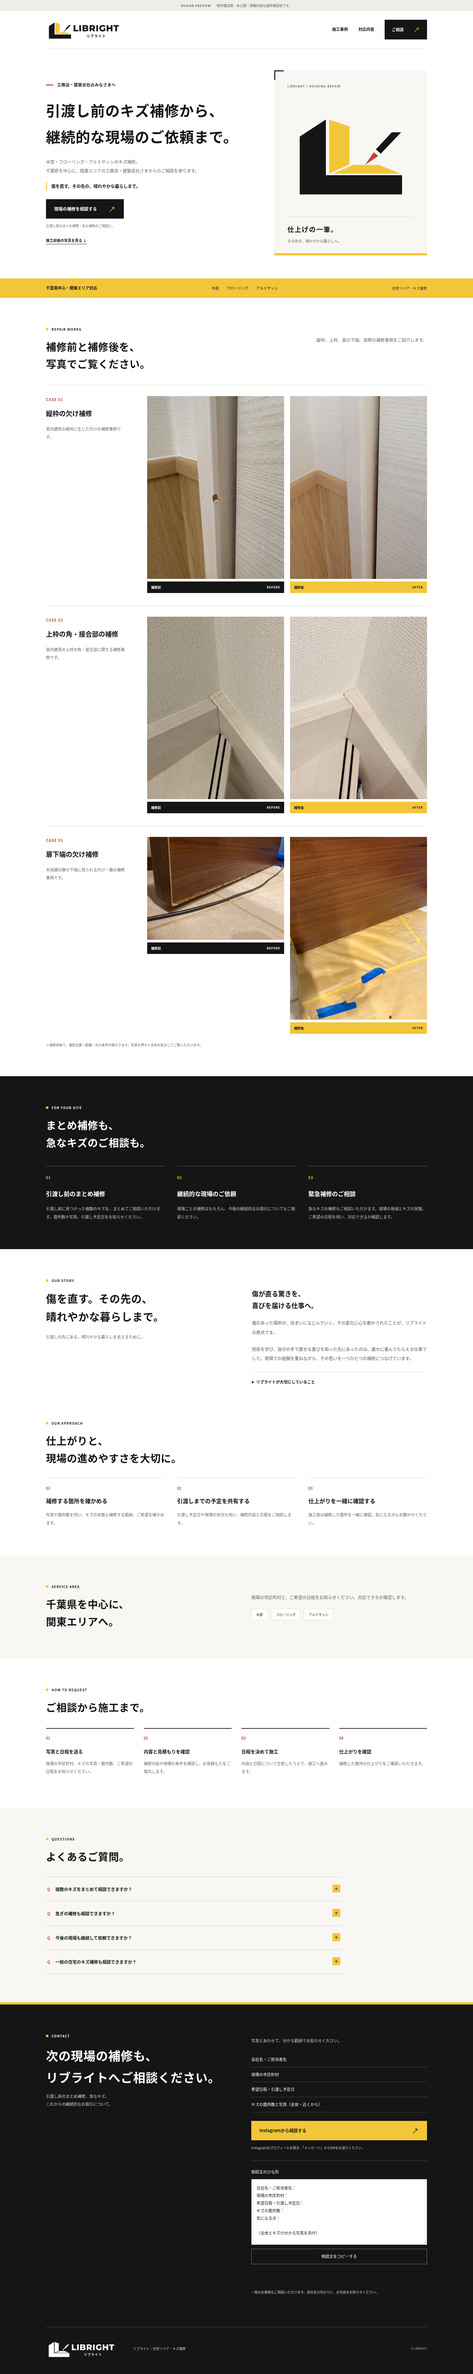
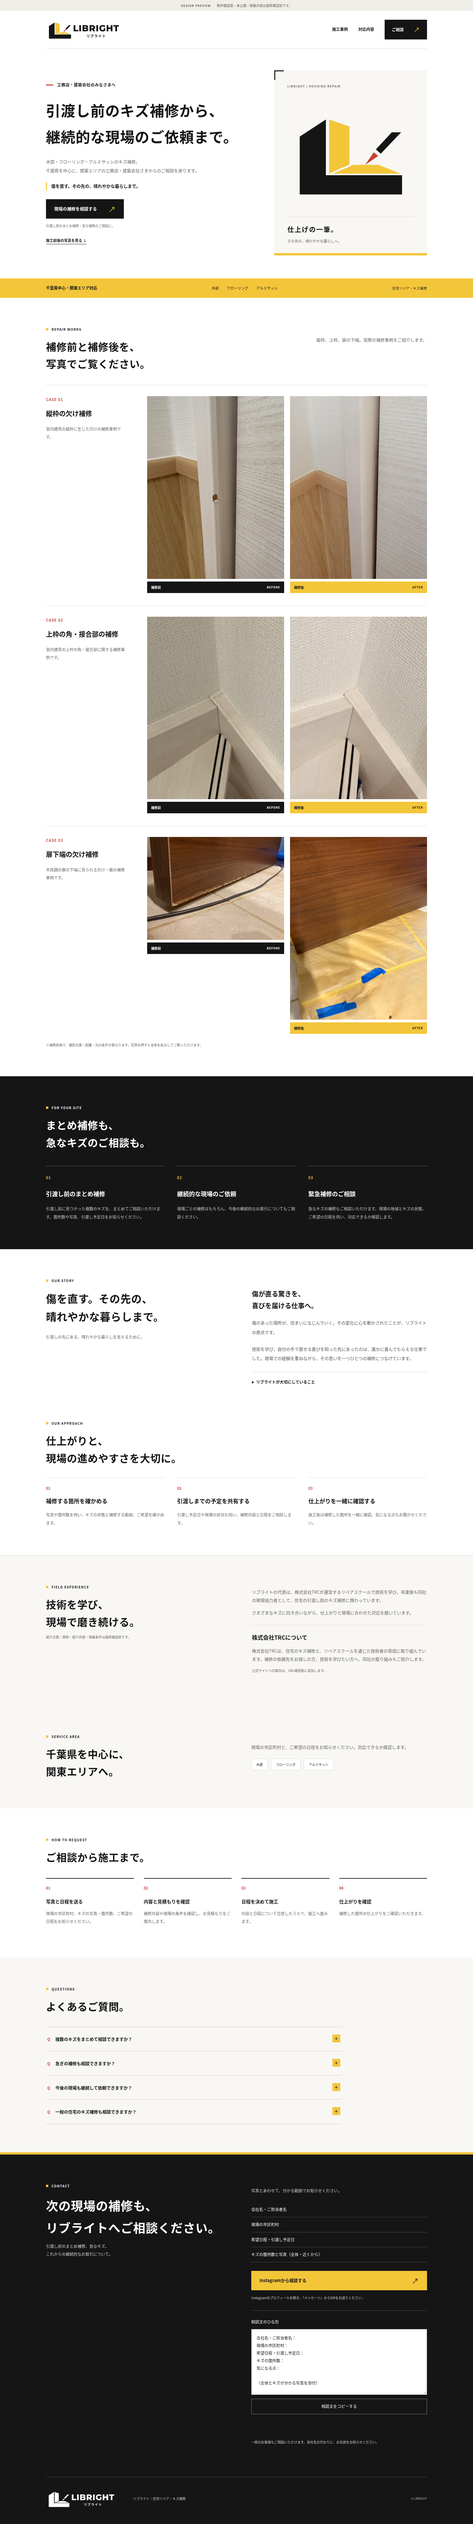
Restore TRC introduction draft to LP review and copy preview

diff --git a/design/copy-review.html b/design/copy-review.html
@@ -1,7 +1,7 @@
-<!doctype html><html lang="ja"><head><meta charset="utf-8"><meta name="viewport" content="width=device-width,initial-scale=1"><meta name="robots" content="noindex,nofollow"><title>LIBRIGHT 文章確認版 v0.2</title><style>body{margin:0;background:#f8f7f3;color:#151515;font:16px/2 sans-serif}header,main,footer{max-width:820px;margin:auto;padding:28px 24px}header{border-bottom:5px solid #f3c63a}section{padding:28px 0;border-top:1px solid #ddd}h1{font-size:26px}h2{font-size:23px}h3{font-size:19px}summary{font-weight:bold;margin-top:20px}p{margin:14px 0}pre{white-space:pre-wrap;background:white;padding:20px;font:inherit}.action{border-left:4px solid #f3c63a;padding-left:12px}footer{border-top:1px solid #ddd;font-size:14px}section{counter-increment:section}section>div:first-child:before,section>span:first-child:before{content:counter(section,decimal-leading-zero) " / ";font-weight:bold;color:#c54136}div{overflow-wrap:anywhere}@media print{body{background:white}section{break-inside:avoid}}</style></head><body><header><h1>LIBRIGHT｜LPの文章確認版</h1><p>文章確認版 v0.2｜2026-10-30。LP本体から本文を抽出。写真は省略し、折りたたみ内の文章もすべて表示しています。掲載順に読み進められます。</p></header><main><div><div><p>工務店・建築会社のみなさまへ</p><h1>引渡し前のキズ補修から、<br>継続的な現場のご依頼まで。</h1><p>木部・フローリング・アルミサッシのキズ補修。<br>千葉県を中心に、関東エリアの工務店・建築会社さまからのご相談を承ります。</p><p>傷を直す。その先の、晴れやかな暮らしまで。</p><p class="action">現場の補修を相談する<span>↗</span></p><p>引渡し前のまとめ補修・急な補修のご相談に。</p><p class="action">施工前後の写真を見る ↓</p></div><div><span>LIBRIGHT / HOUSING REPAIR</span><div><span>仕上げの一筆。</span><p>その先の、晴れやかな暮らしへ。</p></div></div></div><div><div><strong>千葉県中心・関東エリア対応</strong><div><span>木部</span><span>フローリング</span><span>アルミサッシ</span></div><span>住宅リペア・キズ補修</span></div></div><section id="works"><div><div><span>REPAIR WORKS</span><h2>補修前と補修後を、<br>写真でご覧ください。</h2></div><p>縦枠、上枠、扉の下端。実際の補修事例をご紹介します。</p></div><div><div><span>CASE 01</span><h3>縦枠の欠け補修</h3></div><div><figcaption>補修前<span>BEFORE</span></figcaption><figcaption>補修後<span>AFTER</span></figcaption></div><p>室内建具の縦枠に生じた欠けの補修事例です。</p><div><span>CASE 02</span><h3>上枠の角・接合部の補修</h3></div><div><figcaption>補修前<span>BEFORE</span></figcaption><figcaption>補修後<span>AFTER</span></figcaption></div><p>室内建具の上枠の角・接合部に関する補修事例です。</p><div><span>CASE 03</span><h3>扉下端の欠け補修</h3></div><div><figcaption>補修前<span>BEFORE</span></figcaption><figcaption>補修後<span>AFTER</span></figcaption></div><p>木目調の扉の下端に見られる欠け・傷の補修事例です。</p></div><p>※補修前後で、撮影位置・距離・光の条件が異なります。写真を押すと全体を拡大してご覧いただけます。</p></section><section id="services"><div><div><div><span>FOR YOUR SITE</span><h2>まとめ補修も、<br>急なキズのご相談も。</h2></div></div><div><div><span>01</span><h3>引渡し前のまとめ補修</h3><p>引渡し前に見つかった複数のキズを、まとめてご相談いただけます。箇所数や写真、引渡し予定日をお知らせください。</p></div><div><span>02</span><h3>継続的な現場のご依頼</h3><p>現場ごとの補修はもちろん、今後の継続的なお取引についてもご相談ください。</p></div><div><span>03</span><h3>緊急補修のご相談</h3><p>急なキズの補修もご相談いただけます。現場の地域とキズの状態、ご希望の日程を伺い、対応できるか確認します。</p></div></div></div></section><section id="brand-concept"><div><span>OUR STORY</span><h2>傷を直す。その先の、<br>晴れやかな暮らしまで。</h2><p>引渡しの先にある、晴れやかな暮らしを支えるために。</p></div><div><h3>傷が直る驚きを、<br>喜びを届ける仕事へ。</h3><p>傷のあった場所が、住まいになじんでいく。その変化に心を動かされたことが、リブライトの原点です。</p><p>技術を学び、自分の手で直せる喜びを知った先にあったのは、誰かに喜んでもらえる仕事でした。現場での経験を重ねながら、その思いを一つひとつの補修につなげています。</p><summary>リブライトが大切にしていること</summary><div><p>住まいについた傷だけでなく、その傷を見るたびに生まれる気がかりにも目を向ける。</p><p>丁寧な補修で住まいの本来の美しさを取り戻し、安心して毎日を過ごせるように。</p><p>かつて補修技術に感動した人が、今度はその技術で人に喜びを届けていく。</p><div><h3>LIBRIGHTの名前に重ねる思い</h3><p>フランス語の「libre（自由な）」と、英語の「bright（明るい・輝かしい）」。LIBRIGHTは、住まいの傷への気がかりを手放し、晴れやかな暮らしへ向かうお手伝いを目指しています。</p></div></div></div></section><section id="approach"><div><span>OUR APPROACH</span><h2>仕上がりと、<br>現場の進めやすさを大切に。</h2><ol><li><span>01</span><h3>補修する箇所を確かめる</h3><p>写真や箇所数を伺い、キズの状態と補修する範囲、ご希望を確かめます。</p></li><li><span>02</span><h3>引渡しまでの予定を共有する</h3><p>引渡し予定日や現場の状況も伺い、補修内容と日程をご相談します。</p></li><li><span>03</span><h3>仕上がりを一緒に確認する</h3><p>施工後は補修した箇所を一緒に確認。気になる点もお聞かせください。</p></li></ol></div></section><section id="area"><div><div><span>SERVICE AREA</span><h2>千葉県を中心に、<br>関東エリアへ。</h2></div><div><p>現場の市区町村と、ご希望の日程をお知らせください。対応できるか確認します。</p><div><span>木部</span><span>フローリング</span><span>アルミサッシ</span></div></div></div></section><section id="process"><span>HOW TO REQUEST</span><h2>ご相談から施工まで。</h2><ol><li><h3>写真と日程を送る</h3><p>現場の市区町村、キズの写真・箇所数、ご希望の日程をお知らせください。</p></li><li><h3>内容と見積もりを確認</h3><p>補修内容や現場の条件を確認し、お見積もりをご案内します。</p></li><li><h3>日程を決めて施工</h3><p>内容と日程について合意したうえで、施工へ進みます。</p></li><li><h3>仕上がりを確認</h3><p>補修した箇所の仕上がりをご確認いただきます。</p></li></ol></section><section><div><span>QUESTIONS</span><h2>よくあるご質問。</h2><div><summary>複数のキズをまとめて相談できますか？</summary><p>はい。引渡し前のまとめ補修をご相談いただけます。キズの写真と箇所数、現場の市区町村、引渡し予定日をお知らせください。</p><summary>急ぎの補修も相談できますか？</summary><p>はい。緊急補修もご相談いただけます。ご希望の日時と現場の状況を伺い、対応できるか確認します。</p><summary>今後の現場も継続して依頼できますか？</summary><p>継続的なお取引を希望しています。今後の現場で補修先をお探しの工務店・建築会社さまも、まずはご相談ください。</p><summary>一般の住宅のキズ補修も相談できますか？</summary><p>はい。一般のお客様からの住宅のキズ補修もご相談いただけます。お住まいの市区町村、キズの写真、ご希望の日程をお知らせください。</p></div></div></section><section id="contact"><div><div><span>CONTACT</span><h2>次の現場の補修も、<br>リブライトへご相談ください。</h2><p>引渡し前のまとめ補修、急なキズ、<br>これからの継続的なお取引について。</p></div><div><p>写真とあわせて、分かる範囲でお知らせください。</p><ul><li>会社名・ご担当者名</li><li>現場の市区町村</li><li>希望日程・引渡し予定日</li><li>キズの箇所数と写真（全体・近くから）</li></ul><p class="action">Instagramから相談する<span>↗</span></p><p>Instagramのプロフィールを開き、「メッセージ」からDMをお送りください。</p><div><h3>相談文のひな形</h3><pre>会社名・ご担当者名：
+<!doctype html><html lang="ja"><head><meta charset="utf-8"><meta name="viewport" content="width=device-width,initial-scale=1"><meta name="robots" content="noindex,nofollow"><title>LIBRIGHT 文章確認版 v0.2</title><style>body{margin:0;background:#f8f7f3;color:#151515;font:16px/2 sans-serif}header,main,footer{max-width:820px;margin:auto;padding:28px 24px}header{border-bottom:5px solid #f3c63a}section{padding:28px 0;border-top:1px solid #ddd}h1{font-size:26px}h2{font-size:23px}h3{font-size:19px}summary{font-weight:bold;margin-top:20px}p{margin:14px 0}pre{white-space:pre-wrap;background:white;padding:20px;font:inherit}.action{border-left:4px solid #f3c63a;padding-left:12px}footer{border-top:1px solid #ddd;font-size:14px}section{counter-increment:section}section>div:first-child:before,section>span:first-child:before{content:counter(section,decimal-leading-zero) " / ";font-weight:bold;color:#c54136}div{overflow-wrap:anywhere}@media print{body{background:white}section{break-inside:avoid}}</style></head><body><header><h1>LIBRIGHT｜LPの文章確認版</h1><p>文章確認版 v0.2｜2026-10-30。LP本体から本文を抽出。写真は省略し、折りたたみ内の文章もすべて表示しています。掲載順に読み進められます。</p></header><main><div><div><p>工務店・建築会社のみなさまへ</p><h1>引渡し前のキズ補修から、<br>継続的な現場のご依頼まで。</h1><p>木部・フローリング・アルミサッシのキズ補修。<br>千葉県を中心に、関東エリアの工務店・建築会社さまからのご相談を承ります。</p><p>傷を直す。その先の、晴れやかな暮らしまで。</p><p class="action">現場の補修を相談する<span>↗</span></p><p>引渡し前のまとめ補修・急な補修のご相談に。</p><p class="action">施工前後の写真を見る ↓</p></div><div><span>LIBRIGHT / HOUSING REPAIR</span><div><span>仕上げの一筆。</span><p>その先の、晴れやかな暮らしへ。</p></div></div></div><div><div><strong>千葉県中心・関東エリア対応</strong><div><span>木部</span><span>フローリング</span><span>アルミサッシ</span></div><span>住宅リペア・キズ補修</span></div></div><section id="works"><div><div><span>REPAIR WORKS</span><h2>補修前と補修後を、<br>写真でご覧ください。</h2></div><p>縦枠、上枠、扉の下端。実際の補修事例をご紹介します。</p></div><div><div><span>CASE 01</span><h3>縦枠の欠け補修</h3></div><div><figcaption>補修前<span>BEFORE</span></figcaption><figcaption>補修後<span>AFTER</span></figcaption></div><p>室内建具の縦枠に生じた欠けの補修事例です。</p><div><span>CASE 02</span><h3>上枠の角・接合部の補修</h3></div><div><figcaption>補修前<span>BEFORE</span></figcaption><figcaption>補修後<span>AFTER</span></figcaption></div><p>室内建具の上枠の角・接合部に関する補修事例です。</p><div><span>CASE 03</span><h3>扉下端の欠け補修</h3></div><div><figcaption>補修前<span>BEFORE</span></figcaption><figcaption>補修後<span>AFTER</span></figcaption></div><p>木目調の扉の下端に見られる欠け・傷の補修事例です。</p></div><p>※補修前後で、撮影位置・距離・光の条件が異なります。写真を押すと全体を拡大してご覧いただけます。</p></section><section id="services"><div><div><div><span>FOR YOUR SITE</span><h2>まとめ補修も、<br>急なキズのご相談も。</h2></div></div><div><div><span>01</span><h3>引渡し前のまとめ補修</h3><p>引渡し前に見つかった複数のキズを、まとめてご相談いただけます。箇所数や写真、引渡し予定日をお知らせください。</p></div><div><span>02</span><h3>継続的な現場のご依頼</h3><p>現場ごとの補修はもちろん、今後の継続的なお取引についてもご相談ください。</p></div><div><span>03</span><h3>緊急補修のご相談</h3><p>急なキズの補修もご相談いただけます。現場の地域とキズの状態、ご希望の日程を伺い、対応できるか確認します。</p></div></div></div></section><section id="brand-concept"><div><span>OUR STORY</span><h2>傷を直す。その先の、<br>晴れやかな暮らしまで。</h2><p>引渡しの先にある、晴れやかな暮らしを支えるために。</p></div><div><h3>傷が直る驚きを、<br>喜びを届ける仕事へ。</h3><p>傷のあった場所が、住まいになじんでいく。その変化に心を動かされたことが、リブライトの原点です。</p><p>技術を学び、自分の手で直せる喜びを知った先にあったのは、誰かに喜んでもらえる仕事でした。現場での経験を重ねながら、その思いを一つひとつの補修につなげています。</p><summary>リブライトが大切にしていること</summary><div><p>住まいについた傷だけでなく、その傷を見るたびに生まれる気がかりにも目を向ける。</p><p>丁寧な補修で住まいの本来の美しさを取り戻し、安心して毎日を過ごせるように。</p><p>かつて補修技術に感動した人が、今度はその技術で人に喜びを届けていく。</p><div><h3>LIBRIGHTの名前に重ねる思い</h3><p>フランス語の「libre（自由な）」と、英語の「bright（明るい・輝かしい）」。LIBRIGHTは、住まいの傷への気がかりを手放し、晴れやかな暮らしへ向かうお手伝いを目指しています。</p></div></div></div></section><section id="approach"><div><span>OUR APPROACH</span><h2>仕上がりと、<br>現場の進めやすさを大切に。</h2><ol><li><span>01</span><h3>補修する箇所を確かめる</h3><p>写真や箇所数を伺い、キズの状態と補修する範囲、ご希望を確かめます。</p></li><li><span>02</span><h3>引渡しまでの予定を共有する</h3><p>引渡し予定日や現場の状況も伺い、補修内容と日程をご相談します。</p></li><li><span>03</span><h3>仕上がりを一緒に確認する</h3><p>施工後は補修した箇所を一緒に確認。気になる点もお聞かせください。</p></li></ol></div></section><section id="partner"><div><div><span>FIELD EXPERIENCE</span><h2>技術を学び、<br>現場で磨き続ける。</h2><p>紹介文案｜関係・紹介内容・掲載条件は最終確認前です。</p></div><div><p>リブライトの代表は、株式会社TRCが運営するリペアスクールで技術を学び、卒業後も同社の現場協力者として、住宅の引渡し前のキズ補修に携わっています。</p><p>さまざまなキズに向き合いながら、仕上がりと現場に合わせた対応を磨いています。</p><div><h3>株式会社TRCについて</h3><p>株式会社TRCは、住宅のキズ補修と、リペアスクールを通じた技術者の育成に取り組んでいます。補修の依頼先をお探しの方、技術を学びたい方へ、同社の取り組みもご紹介します。</p><p>公式サイトへの案内は、URL確認後に追加します。</p></div></div></div></section><section id="area"><div><div><span>SERVICE AREA</span><h2>千葉県を中心に、<br>関東エリアへ。</h2></div><div><p>現場の市区町村と、ご希望の日程をお知らせください。対応できるか確認します。</p><div><span>木部</span><span>フローリング</span><span>アルミサッシ</span></div></div></div></section><section id="process"><span>HOW TO REQUEST</span><h2>ご相談から施工まで。</h2><ol><li><h3>写真と日程を送る</h3><p>現場の市区町村、キズの写真・箇所数、ご希望の日程をお知らせください。</p></li><li><h3>内容と見積もりを確認</h3><p>補修内容や現場の条件を確認し、お見積もりをご案内します。</p></li><li><h3>日程を決めて施工</h3><p>内容と日程について合意したうえで、施工へ進みます。</p></li><li><h3>仕上がりを確認</h3><p>補修した箇所の仕上がりをご確認いただきます。</p></li></ol></section><section><div><span>QUESTIONS</span><h2>よくあるご質問。</h2><div><summary>複数のキズをまとめて相談できますか？</summary><p>はい。引渡し前のまとめ補修をご相談いただけます。キズの写真と箇所数、現場の市区町村、引渡し予定日をお知らせください。</p><summary>急ぎの補修も相談できますか？</summary><p>はい。緊急補修もご相談いただけます。ご希望の日時と現場の状況を伺い、対応できるか確認します。</p><summary>今後の現場も継続して依頼できますか？</summary><p>継続的なお取引を希望しています。今後の現場で補修先をお探しの工務店・建築会社さまも、まずはご相談ください。</p><summary>一般の住宅のキズ補修も相談できますか？</summary><p>はい。一般のお客様からの住宅のキズ補修もご相談いただけます。お住まいの市区町村、キズの写真、ご希望の日程をお知らせください。</p></div></div></section><section id="contact"><div><div><span>CONTACT</span><h2>次の現場の補修も、<br>リブライトへご相談ください。</h2><p>引渡し前のまとめ補修、急なキズ、<br>これからの継続的なお取引について。</p></div><div><p>写真とあわせて、分かる範囲でお知らせください。</p><ul><li>会社名・ご担当者名</li><li>現場の市区町村</li><li>希望日程・引渡し予定日</li><li>キズの箇所数と写真（全体・近くから）</li></ul><p class="action">Instagramから相談する<span>↗</span></p><p>Instagramのプロフィールを開き、「メッセージ」からDMをお送りください。</p><div><h3>相談文のひな形</h3><pre>会社名・ご担当者名：
 現場の市区町村：
 希望日程・引渡し予定日：
 キズの箇所数：
 気になる点：
 
-（全体とキズが分かる写真を添付）</pre><p class="action">相談文をコピーする</p><p id="copy-status"></p></div><p>一般のお客様もご相談いただけます。会社名の代わりに、お名前をお知らせください。</p></div></div></section></main><footer><h2>制作上の確認事項</h2><p>新しい原点の物語・現場での姿勢・施工の流れはnさんの確認前の案です。TRC紹介は、関係・紹介文・公式リンク・掲載条件の確認後に「現場で大切にすること」の次へ追加します。現在のLPには表示していません。料金も確認後に差し込みます。</p></footer></body></html>
+（全体とキズが分かる写真を添付）</pre><p class="action">相談文をコピーする</p><p id="copy-status"></p></div><p>一般のお客様もご相談いただけます。会社名の代わりに、お名前をお知らせください。</p></div></div></section></main><footer><h2>制作上の確認事項</h2><p>新しい原点の物語・現場での姿勢・施工の流れはnさんの確認前の案です。TRC紹介は「現場で大切にすること」の次へ確認用の文章案を表示しています。正式公開は関係・紹介文・公式リンク・掲載条件の確認後です。料金も確認後に差し込みます。</p></footer></body></html>

diff --git a/design/preview.html b/design/preview.html
@@ -163,7 +163,11 @@ h3 { font-size:17px; font-weight:700; line-height:1.8; margin:0; }
 .footer-service { font-size:10px; color:#cfcec6; }
 .copyright { margin-left:auto; color:#b1b0a8; font-size:9px; }
 .business-details { font-size:11px; }
-.partner-section { border-top:1px solid var(--line); }
+.partner-section { border-top:1px solid var(--line); background:var(--paper); }
+.partner-grid { display:grid; grid-template-columns:1fr 1fr; gap:94px; }
+.partner-company { border-top:1px solid var(--line); margin-top:25px; padding-top:22px; }
+.partner-company h3 { font-size:17px; }
+.partner-section .partner-draft-note { font-size:10px; color:var(--muted); }
 .partner-section p { font-size:13px; max-width:720px; color:var(--muted); }
 .mobile-contact { display:none; }
 .photo-dialog { border:0; padding:20px; background:var(--white); color:var(--black); max-width:96vw; max-height:94dvh; }
@@ -182,7 +186,7 @@ h3 { font-size:17px; font-weight:700; line-height:1.8; margin:0; }
   .scope-caption { display:none; }
   .case { grid-template-columns:210px minmax(0,1fr); column-gap:35px; }
   .case-heading h3 { font-size:18px; }
-  .about-grid,.area-grid,.contact-grid { gap:50px; }
+  .about-grid,.area-grid,.contact-grid,.partner-grid { gap:50px; }
   .about-grid h2 { font-size:29px; }
   .service-grid { gap:25px; }
   .service-row h3 { font-size:16px; }
@@ -238,7 +242,7 @@ h3 { font-size:17px; font-weight:700; line-height:1.8; margin:0; }
   .service-number { margin:4px 0 0; font-size:10px; }
   .service-row h3 { font-size:17px; }
   .service-row p { grid-column:2; margin-top:11px; font-size:12px; }
-  .about-grid,.area-grid,.contact-grid { grid-template-columns:1fr; gap:25px; }
+  .about-grid,.area-grid,.contact-grid,.partner-grid { grid-template-columns:1fr; gap:25px; }
   .about-grid h2 { font-size:27px; }
   .contractor-bridge { font-size:11px; margin-top:20px; }
   .about-text { padding-top:0; font-size:12px; }
@@ -326,7 +330,7 @@ h3 { font-size:17px; font-weight:700; line-height:1.8; margin:0; }
     </section>
     <section class="wrap about-grid" id="brand-concept"><div><span class="section-label">OUR STORY</span><h2>傷を直す。その先の、<br>晴れやかな暮らしまで。</h2><p class="contractor-bridge">引渡しの先にある、晴れやかな暮らしを支えるために。</p></div><div class="about-text"><h3 class="story-heading">傷が直る驚きを、<br>喜びを届ける仕事へ。</h3><p>傷のあった場所が、住まいになじんでいく。その変化に心を動かされたことが、リブライトの原点です。</p><p>技術を学び、自分の手で直せる喜びを知った先にあったのは、誰かに喜んでもらえる仕事でした。現場での経験を重ねながら、その思いを一つひとつの補修につなげています。</p><details class="concept-details"><summary>リブライトが大切にしていること</summary><div><p>住まいについた傷だけでなく、その傷を見るたびに生まれる気がかりにも目を向ける。</p><p>丁寧な補修で住まいの本来の美しさを取り戻し、安心して毎日を過ごせるように。</p><p>かつて補修技術に感動した人が、今度はその技術で人に喜びを届けていく。</p><div class="brand-origin"><h3>LIBRIGHTの名前に重ねる思い</h3><p>フランス語の「libre（自由な）」と、英語の「bright（明るい・輝かしい）」。LIBRIGHTは、住まいの傷への気がかりを手放し、晴れやかな暮らしへ向かうお手伝いを目指しています。</p></div></div></details></div></section>
     <section class="practice-section" id="approach"><div class="wrap"><span class="section-label">OUR APPROACH</span><h2>仕上がりと、<br>現場の進めやすさを大切に。</h2><ol class="practice-list"><li><span class="practice-number">01</span><h3>補修する箇所を確かめる</h3><p>写真や箇所数を伺い、キズの状態と補修する範囲、ご希望を確かめます。</p></li><li><span class="practice-number">02</span><h3>引渡しまでの予定を共有する</h3><p>引渡し予定日や現場の状況も伺い、補修内容と日程をご相談します。</p></li><li><span class="practice-number">03</span><h3>仕上がりを一緒に確認する</h3><p>施工後は補修した箇所を一緒に確認。気になる点もお聞かせください。</p></li></ol></div></section>
-
+    <section class="partner-section" id="partner"><div class="wrap partner-grid"><div><span class="section-label">FIELD EXPERIENCE</span><h2>技術を学び、<br>現場で磨き続ける。</h2><p class="partner-draft-note">紹介文案｜関係・紹介内容・掲載条件は最終確認前です。</p></div><div><p>リブライトの代表は、株式会社TRCが運営するリペアスクールで技術を学び、卒業後も同社の現場協力者として、住宅の引渡し前のキズ補修に携わっています。</p><p>さまざまなキズに向き合いながら、仕上がりと現場に合わせた対応を磨いています。</p><div class="partner-company"><h3>株式会社TRCについて</h3><p>株式会社TRCは、住宅のキズ補修と、リペアスクールを通じた技術者の育成に取り組んでいます。補修の依頼先をお探しの方、技術を学びたい方へ、同社の取り組みもご紹介します。</p><p class="partner-draft-note">公式サイトへの案内は、URL確認後に追加します。</p></div></div></div></section>
     <section class="area-section" id="area"><div class="wrap area-grid">
       <div><span class="section-label">SERVICE AREA</span><h2>千葉県を中心に、<br>関東エリアへ。</h2></div>
       <div class="area-copy"><p>現場の市区町村と、ご希望の日程をお知らせください。対応できるか確認します。</p><div class="materials"><span>木部</span><span>フローリング</span><span>アルミサッシ</span></div></div>

diff --git a/site/styles.css b/site/styles.css
@@ -148,7 +148,11 @@ h3 { font-size:17px; font-weight:700; line-height:1.8; margin:0; }
 .footer-service { font-size:10px; color:#cfcec6; }
 .copyright { margin-left:auto; color:#b1b0a8; font-size:9px; }
 .business-details { font-size:11px; }
-.partner-section { border-top:1px solid var(--line); }
+.partner-section { border-top:1px solid var(--line); background:var(--paper); }
+.partner-grid { display:grid; grid-template-columns:1fr 1fr; gap:94px; }
+.partner-company { border-top:1px solid var(--line); margin-top:25px; padding-top:22px; }
+.partner-company h3 { font-size:17px; }
+.partner-section .partner-draft-note { font-size:10px; color:var(--muted); }
 .partner-section p { font-size:13px; max-width:720px; color:var(--muted); }
 .mobile-contact { display:none; }
 .photo-dialog { border:0; padding:20px; background:var(--white); color:var(--black); max-width:96vw; max-height:94dvh; }
@@ -167,7 +171,7 @@ h3 { font-size:17px; font-weight:700; line-height:1.8; margin:0; }
   .scope-caption { display:none; }
   .case { grid-template-columns:210px minmax(0,1fr); column-gap:35px; }
   .case-heading h3 { font-size:18px; }
-  .about-grid,.area-grid,.contact-grid { gap:50px; }
+  .about-grid,.area-grid,.contact-grid,.partner-grid { gap:50px; }
   .about-grid h2 { font-size:29px; }
   .service-grid { gap:25px; }
   .service-row h3 { font-size:16px; }
@@ -223,7 +227,7 @@ h3 { font-size:17px; font-weight:700; line-height:1.8; margin:0; }
   .service-number { margin:4px 0 0; font-size:10px; }
   .service-row h3 { font-size:17px; }
   .service-row p { grid-column:2; margin-top:11px; font-size:12px; }
-  .about-grid,.area-grid,.contact-grid { grid-template-columns:1fr; gap:25px; }
+  .about-grid,.area-grid,.contact-grid,.partner-grid { grid-template-columns:1fr; gap:25px; }
   .about-grid h2 { font-size:27px; }
   .contractor-bridge { font-size:11px; margin-top:20px; }
   .about-text { padding-top:0; font-size:12px; }

diff --git a/scripts/review_copy.py b/scripts/review_copy.py
@@ -78,7 +78,7 @@ md = re.sub(r'【ボタン・リンク】\s*(?=補修[前後])', '', md)
 md = re.sub(r'\n- \s*\n', '\n', md)
 md = re.sub(r'\n{3,}', '\n\n', md)
 intro = '文章確認版 v0.2｜2026-10-30。LP本体から本文を抽出。写真は省略し、折りたたみ内の文章もすべて表示しています。掲載順に読み進められます。'
-notes = '新しい原点の物語・現場での姿勢・施工の流れはnさんの確認前の案です。TRC紹介は、関係・紹介文・公式リンク・掲載条件の確認後に「現場で大切にすること」の次へ追加します。現在のLPには表示していません。料金も確認後に差し込みます。'
+notes = '新しい原点の物語・現場での姿勢・施工の流れはnさんの確認前の案です。TRC紹介は「現場で大切にすること」の次へ確認用の文章案を表示しています。正式公開は関係・紹介文・公式リンク・掲載条件の確認後です。料金も確認後に差し込みます。'
 style = 'body{margin:0;background:#f8f7f3;color:#151515;font:16px/2 sans-serif}header,main,footer{max-width:820px;margin:auto;padding:28px 24px}header{border-bottom:5px solid #f3c63a}section{padding:28px 0;border-top:1px solid #ddd}h1{font-size:26px}h2{font-size:23px}h3{font-size:19px}summary{font-weight:bold;margin-top:20px}p{margin:14px 0}pre{white-space:pre-wrap;background:white;padding:20px;font:inherit}.action{border-left:4px solid #f3c63a;padding-left:12px}footer{border-top:1px solid #ddd;font-size:14px}section{counter-increment:section}section>div:first-child:before,section>span:first-child:before{content:counter(section,decimal-leading-zero) " / ";font-weight:bold;color:#c54136}div{overflow-wrap:anywhere}@media print{body{background:white}section{break-inside:avoid}}'
 page = '<!doctype html><html lang="ja"><head><meta charset="utf-8"><meta name="viewport" content="width=device-width,initial-scale=1"><meta name="robots" content="noindex,nofollow"><title>LIBRIGHT 文章確認版 v0.2</title><style>' + style + '</style></head><body><header><h1>LIBRIGHT｜LPの文章確認版</h1><p>' + intro + '</p></header><main>' + body + '</main><footer><h2>制作上の確認事項</h2><p>' + notes + '</p></footer></body></html>'
 (ROOT / 'design/copy-review.html').write_text(page, encoding='utf-8')

diff --git a/scripts/build.py b/scripts/build.py
@@ -176,7 +176,10 @@ def render(data, review):
     if p.get('publish'):
         if not all(p.get(key) for key in ['name', 'relationship', 'description', 'officialUrl', 'confirmed', 'publicationCleared']):
             raise ValueError('協力先紹介は、関係・紹介文・公式案内先・掲載条件を確認してから公開してください。')
-        partner = f'<section class="partner-section"><div class="wrap"><span class="section-label">PARTNER</span><h2>{esc(p["name"])}</h2><p>{esc(p["relationship"])}</p><p>{esc(p["description"])}</p><a href="{esc(web_url(p["officialUrl"]))}" target="_blank" rel="noopener noreferrer">{esc(p["name"])}の公式サイトを見る</a></div></section>'
+        partner = f'<section class="partner-section" id="partner"><div class="wrap"><span class="section-label">PARTNER</span><h2>{esc(p["name"])}</h2><p>{esc(p["relationship"])}</p><p>{esc(p["description"])}</p><a href="{esc(web_url(p["officialUrl"]))}" target="_blank" rel="noopener noreferrer">{esc(p["name"])}の公式サイトを見る</a></div></section>'
+    elif review and p.get('reviewDraft', {}).get('show'):
+        draft = p['reviewDraft']
+        partner = '<section class="partner-section" id="partner"><div class="wrap partner-grid"><div><span class="section-label">FIELD EXPERIENCE</span><h2>' + lines(draft['headline']) + '</h2><p class="partner-draft-note">紹介文案｜関係・紹介内容・掲載条件は最終確認前です。</p></div><div><p>' + esc(draft['relationship']) + '</p><p>' + esc(draft['approach']) + '</p><div class="partner-company"><h3>' + esc(draft['name']) + 'について</h3><p>' + esc(draft['description']) + '</p><p class="partner-draft-note">公式サイトへの案内は、URL確認後に追加します。</p></div></div></div></section>'
     business = data['business']
     business_html = ''
     if business.get('publishDetails'):

diff --git a/scripts/verify_browser.py b/scripts/verify_browser.py
@@ -52,12 +52,14 @@ try:
                     assert abs(dimensions['width'] / dimensions['height'] - dimensions['ratio']) < .02
                 assert page.locator('.hero-symbol').count() == 1
                 order = page.locator('main > section').evaluate_all('(sections) => sections.map(section => section.id).filter(Boolean)')
-                assert order == ['works', 'services', 'brand-concept', 'approach', 'area', 'process', 'contact'], order
+                assert order == ['works', 'services', 'brand-concept', 'approach', 'partner', 'area', 'process', 'contact'], order
                 assert page.locator('.practice-list li').count() == 3
                 overflow = page.evaluate('document.documentElement.scrollWidth > window.innerWidth')
                 assert not overflow, f'horizontal overflow at {width}px'
                 assert page.locator('#pricing').count() == 0
-                assert page.locator('.partner-section').count() == 0
+                assert page.locator('.partner-section').count() == 1
+                assert page.locator('#partner').inner_text().count('株式会社TRC') >= 2
+                assert page.locator('#partner a').count() == 0
                 assert page.locator('.original-photo').count() == 6
                 for photo in page.locator('.original-photo').all():
                     dimensions = photo.evaluate('(img) => ({width: img.clientWidth, height: img.clientHeight, ratio: img.naturalWidth / img.naturalHeight, fit: getComputedStyle(img).objectFit, filter: getComputedStyle(img).filter})')

diff --git a/docs/COPY_DRAFT.md b/docs/COPY_DRAFT.md
@@ -147,6 +147,23 @@ OUR APPROACH
 
 施工後は補修した箇所を一緒に確認。気になる点もお聞かせください。
 
+FIELD EXPERIENCE
+
+### 技術を学び、
+現場で磨き続ける。
+
+紹介文案｜関係・紹介内容・掲載条件は最終確認前です。
+
+リブライトの代表は、株式会社TRCが運営するリペアスクールで技術を学び、卒業後も同社の現場協力者として、住宅の引渡し前のキズ補修に携わっています。
+
+さまざまなキズに向き合いながら、仕上がりと現場に合わせた対応を磨いています。
+
+#### 株式会社TRCについて
+
+株式会社TRCは、住宅のキズ補修と、リペアスクールを通じた技術者の育成に取り組んでいます。補修の依頼先をお探しの方、技術を学びたい方へ、同社の取り組みもご紹介します。
+
+公式サイトへの案内は、URL確認後に追加します。
+
 SERVICE AREA
 
 ### 千葉県を中心に、
@@ -240,4 +257,4 @@ Instagramのプロフィールを開き、「メッセージ」からDMをお送
 
 ## 制作上の確認事項
 
-新しい原点の物語・現場での姿勢・施工の流れはnさんの確認前の案です。TRC紹介は、関係・紹介文・公式リンク・掲載条件の確認後に「現場で大切にすること」の次へ追加します。現在のLPには表示していません。料金も確認後に差し込みます。
+新しい原点の物語・現場での姿勢・施工の流れはnさんの確認前の案です。TRC紹介は「現場で大切にすること」の次へ確認用の文章案を表示しています。正式公開は関係・紹介文・公式リンク・掲載条件の確認後です。料金も確認後に差し込みます。

diff --git a/docs/QA_REPORT.md b/docs/QA_REPORT.md
@@ -79,3 +79,9 @@
 - 文章確認用HTMLは画像なし・詳細本文を展開済み。8節の本文と320/1440pxの表示を確認。文章はLP本体から生成する。
 - 写真6枚のsite/design/dist-reviewコピーは記録したSHA-256と一致。未確認の物語・姿勢・TRCが公開用レンダリングに入らないことを確認。
 - 新規の文章と業務姿勢はnさん確認前の案。実DM経路、第三者掲載条件、Web公開の未確認範囲は引き続き残る。
+
+## TRC紹介文案の追加確認
+
+- 独立レビューで必須修正なし。関係の説明とTRCの事業紹介を分けた確認用文章を表示。ダミーの公式URL・リンクは作成していない。
+- 320/390/768/1440pxでTRC紹介と本文の表示、横はみ出しなしを確認。文章確認版は9節に更新。
+- 公開用レンダリングではTRC紹介が非表示であること、写真6枚のSHA-256が引き続き一致することを確認。既存操作のコードは変更していない。

diff --git a/design/previews/README.md b/design/previews/README.md
@@ -23,3 +23,5 @@
 短い原点の物語と現場で大切にする3項目を追加。全体の文章を法人の現場相談と継続取引を軸に見直しました。
 
 文章のみの確認は[全文一覧](../../docs/COPY_DRAFT.md)、ブラウザで読む場合は[文章確認用HTML](../copy-review.html)をダウンロードしてください。
+
+TRC紹介文案を「現場で大切にすること」の次へ追加しました。現場協力の関係と、TRC自身の補修・技術者育成の事業を分けて紹介。制作確認版のみの表示で、公式リンクはURL確認後に追加します。
